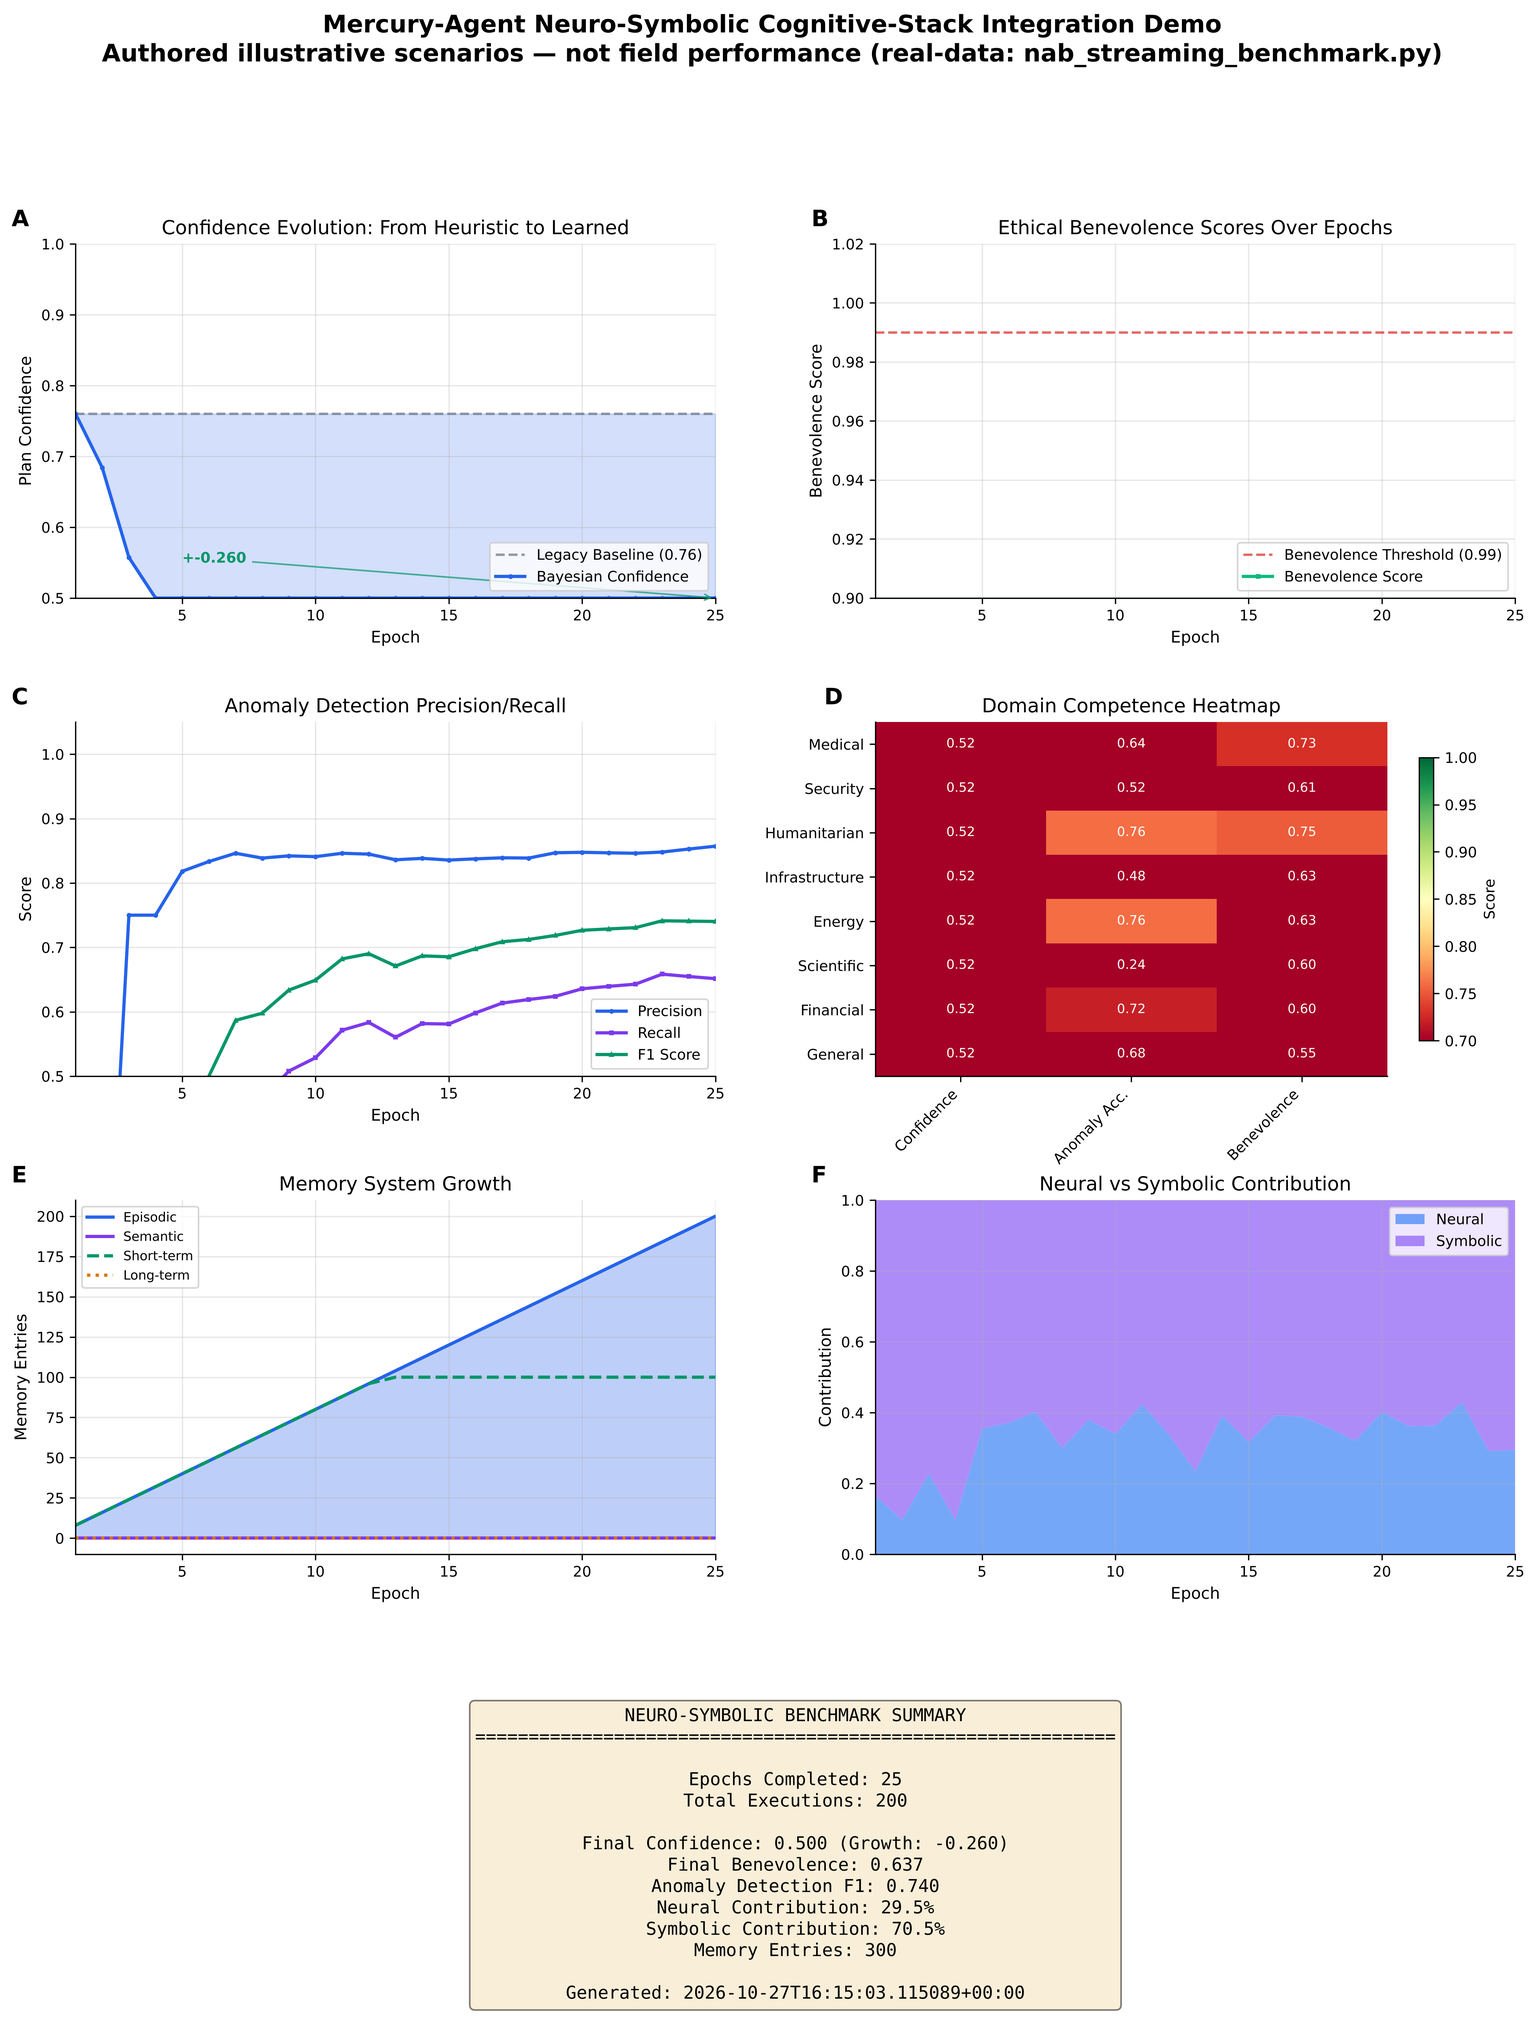
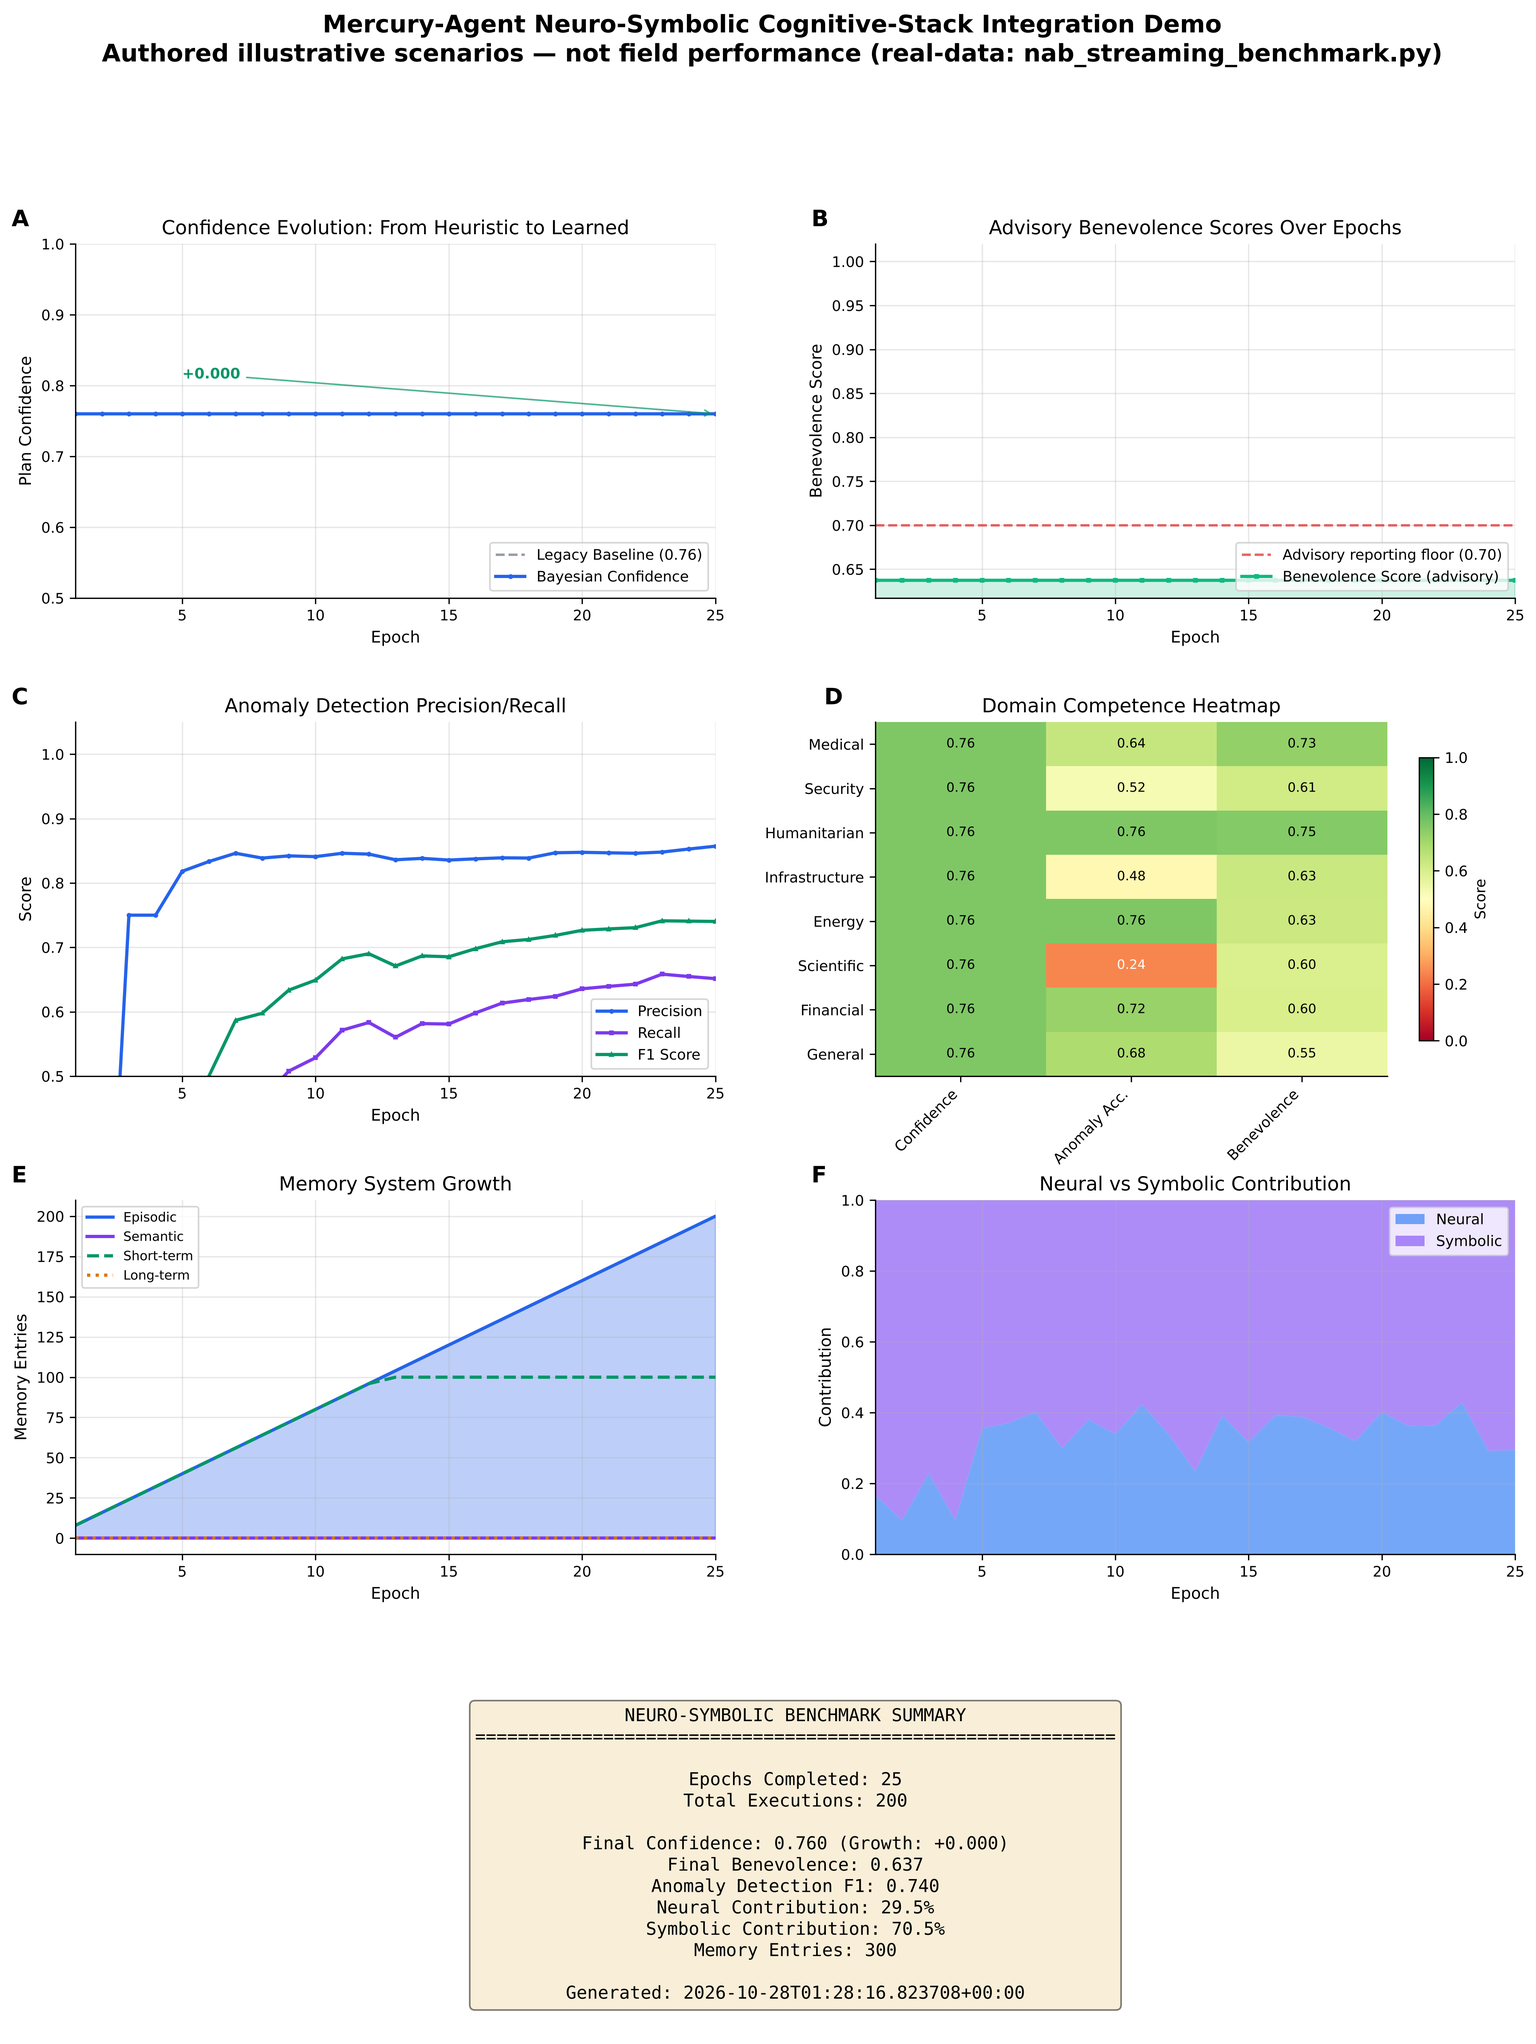
No evidence is not failure: stop pure-reasoning runs poisoning the confidence calibrator; make the demo report render its own data truthfully
The committed neuro-symbolic demo report showed plan confidence collapsing
0.76 -> 0.500. Root cause: a plan whose tasks were all transparently skipped
(no tool bound) reports success_rate 0.0 as 'not applicable', but
_learn_from_execution compared it against the 0.99 success bar and recorded
a failed Bernoulli trial, driving the Beta posterior to the calibrator's 0.5
clamp on every pure-reasoning run. Zero executed tasks now records no
observation, pinned end to end by TestCalibrationEvidence (confidence holds
the 0.76 prior across repeated no-tool analyze calls).

The figure itself had three rendering defects: the domain-competence heatmap
clipped at vmin=0.7 while its data spans 0.24-0.76, rendering every cell the
same saturated red (now the full [0,1] range, so 0.24 reads as 0.24); the
benevolence panel's 0.90-1.02 y-axis hid the ~0.64 advisory series entirely
while drawing the retired 0.99 pass-bar as its reference (now scaled to the
data against the 0.70 advisory reporting floor, labeled advisory); and the
confidence panel annotated a negative delta as '+-0.260' in success green
(now signed, colored by direction). The demo's scorer drops its retired
benevolence_threshold=0.99 for the default advisory floor.

scripts/generate_docs_images.py wrote a different figure (the ensemble
report) to the same docs/images filename the README embeds as this demo, so
one run silently replaced the other; it now saves as
[…]

diff --git a/benchmarks/neuro_symbolic_benchmark.py b/benchmarks/neuro_symbolic_benchmark.py
@@ -45,6 +45,7 @@ from omni_mercury_engine.agentic.mercury_a_agent import (
     create_mercury_agent,
 )
 from omni_mercury_engine.cognitive.ethical_bounding import (
+    MINIMUM_BENEVOLENCE_FLOOR,
     BenevolenceScorer,
 )
 from omni_mercury_engine.cognitive.neural_memory_layer import MemoryType
@@ -290,9 +291,10 @@ def run_neuro_symbolic_benchmark(epochs: int = 50) -> dict[str, Any]:
         fusion_strategy=FusionStrategy.CONFIDENCE_WEIGHTED,
     )
 
-    benevolence_scorer = BenevolenceScorer(
-        benevolence_threshold=0.99,
-    )
+    # Default threshold = MINIMUM_BENEVOLENCE_FLOOR (0.70), the advisory
+    # reporting floor. The 0.99 this demo used to pass is the retired
+    # pass-bar; only score_action is called here, never enforce.
+    benevolence_scorer = BenevolenceScorer()
 
     agent = create_mercury_agent(
         name="Mercury-NeuroSymbolic",
@@ -526,14 +528,17 @@ def plot_confidence_evolution(results: dict[str, Any], ax: Axes) -> None:
 
     final_conf = confidences[-1]
     improvement = final_conf - 0.76
+    # Signed and colored by direction: a drop is annotated as a drop, never
+    # rendered as "+-0.xxx" in success green.
+    delta_color = COLORS["success"] if improvement >= 0 else COLORS["danger"]
     ax.annotate(
-        f"+{improvement:.3f}",
+        f"{improvement:+.3f}",
         xy=(epochs[-1], final_conf),
         xytext=(epochs[-1] - 20, final_conf + 0.05),
         fontsize=9,
-        color=COLORS["success"],
+        color=delta_color,
         fontweight="bold",
-        arrowprops=dict(arrowstyle="->", color=COLORS["success"], alpha=0.7),
+        arrowprops=dict(arrowstyle="->", color=delta_color, alpha=0.7),
     )
 
 
@@ -542,16 +547,21 @@ def plot_benevolence_evolution(results: dict[str, Any], ax: Axes) -> None:
     epochs = [s["epoch"] for s in results["epoch_summaries"]]
     benevolence = [s["benevolence_score"] for s in results["epoch_summaries"]]
 
+    # The 0.99 pass-bar is retired (benevolence is advisory at detection
+    # boundaries; see src/omni_mercury_engine/ethical/__init__.py). The
+    # reference line is the advisory reporting floor, and the y-axis covers
+    # the measured series instead of hiding it below the frame.
     ax.axhline(
-        y=0.99,
+        y=MINIMUM_BENEVOLENCE_FLOOR,
         color=COLORS["danger"],
         linestyle="--",
         linewidth=1.5,
-        label="Benevolence Threshold (0.99)",
+        label=f"Advisory reporting floor ({MINIMUM_BENEVOLENCE_FLOOR:.2f})",
         alpha=0.7,
     )
 
-    ax.fill_between(epochs, [0.9] * len(epochs), benevolence, alpha=0.2, color=COLORS["ethical"])
+    y_lo = min(min(benevolence) - 0.02, MINIMUM_BENEVOLENCE_FLOOR - 0.05)
+    ax.fill_between(epochs, [y_lo] * len(epochs), benevolence, alpha=0.2, color=COLORS["ethical"])
     ax.plot(
         epochs,
         benevolence,
@@ -559,14 +569,14 @@ def plot_benevolence_evolution(results: dict[str, Any], ax: Axes) -> None:
         linewidth=2,
         marker="s",
         markersize=2,
-        label="Benevolence Score",
+        label="Benevolence Score (advisory)",
     )
 
     ax.set_xlabel("Epoch")
     ax.set_ylabel("Benevolence Score")
-    ax.set_title("Ethical Benevolence Scores Over Epochs")
+    ax.set_title("Advisory Benevolence Scores Over Epochs")
     ax.legend(loc="lower right")
-    ax.set_ylim(0.9, 1.02)
+    ax.set_ylim(y_lo, 1.02)
     ax.set_xlim(1, max(epochs))
     ax.grid(True, alpha=0.3)
 
@@ -626,7 +636,10 @@ def plot_domain_heatmap(results: dict[str, Any], ax: Axes) -> None:
 
     cmap = plt.get_cmap("RdYlGn").copy()
     cmap.set_bad(color="#d1d5db")  # grey for any unmeasured cell
-    im = ax.imshow(data, cmap=cmap, aspect="auto", vmin=0.7, vmax=1.0)
+    # Full score range: all three metrics live in [0, 1]. A narrower window
+    # (this was vmin=0.7) clips every sub-window value to one saturated
+    # color, so 0.24 and 0.69 rendered identically and the colorbar lied.
+    im = ax.imshow(data, cmap=cmap, aspect="auto", vmin=0.0, vmax=1.0)
 
     cbar = plt.colorbar(im, ax=ax, shrink=0.8)
     cbar.set_label("Score", fontsize=9)
@@ -642,7 +655,9 @@ def plot_domain_heatmap(results: dict[str, Any], ax: Axes) -> None:
             if np.isnan(value):
                 ax.text(j, i, "n/a", ha="center", va="center", color="black", fontsize=8)
                 continue
-            color = "white" if value < 0.85 else "black"
+            # RdYlGn over [0, 1] is dark at both extremes and light in the
+            # middle, so text is white at the ends and black in the middle.
+            color = "white" if (value < 0.30 or value > 0.85) else "black"
             ax.text(j, i, f"{value:.2f}", ha="center", va="center", color=color, fontsize=8)
 
     ax.set_title("Domain Competence Heatmap")

diff --git a/tests/test_mercury_a_agent.py b/tests/test_mercury_a_agent.py
@@ -55,7 +55,7 @@ class TestRealToolDispatch:
         agent = MercuryAgent(name="t")
         seen = {}
 
-        def detect(data=None):
+        def detect(data: Any = None) -> dict[str, int]:
             seen["data"] = data
             return {"anomalies": int(np.sum(np.asarray(data) > 2.0))}
 
@@ -80,7 +80,7 @@ class TestRealToolDispatch:
     def test_raising_tool_yields_genuine_failure(self) -> None:
         agent = MercuryAgent(name="t")
 
-        def boom():
+        def boom() -> None:
             raise RuntimeError("kaboom")
 
         agent.register_tool("boom", boom)
@@ -127,7 +127,7 @@ class TestExecutionEthicalGate:
         agent = MercuryAgent(name="t")
         ran = {"tool": False}
 
-        def detect(data=None):
+        def detect(data: Any = None) -> dict[str, Any]:
             ran["tool"] = True
             return {}
 
@@ -213,3 +213,67 @@ class TestAnalyzeFlow:
         agent = MercuryAgent(name="t")
         agent.register_tool("detect", lambda: None)
         assert "detect" in agent.get_state()["registered_tools"]
+
+
+class TestCalibrationEvidence:
+    """No executed task means no calibration observation, never a failure.
+
+    A plan whose tasks were all transparently skipped (no tool bound)
+    reports ``success_rate = 0.0`` as "not applicable". Feeding that to the
+    Bayesian calibrator as a failed Bernoulli trial poisoned the Beta
+    posterior toward its 0.5 clamp on every pure-reasoning run — the
+    committed demo report showed plan confidence collapsing 0.76 -> 0.500
+    from this alone. These tests pin the repaired contract.
+    """
+
+    @staticmethod
+    def _execution(completed: int, failed: int, skipped: int) -> dict[str, Any]:
+        executed = completed + failed
+        return {
+            "plan_id": "p1",
+            "tasks_completed": completed,
+            "tasks_failed": failed,
+            "tasks_skipped": skipped,
+            "task_results": [],
+            "success_rate": completed / executed if executed else 0.0,
+        }
+
+    def _agent_with_plan(self) -> MercuryAgent:
+        agent = MercuryAgent(name="t")
+        agent.current_plan = agent.planner.plan("analyze stream health", domain=DomainType.GENERAL)
+        return agent
+
+    def test_skipped_only_execution_records_no_observation(self) -> None:
+        agent = self._agent_with_plan()
+        assert agent.confidence_calibrator is not None
+        agent._learn_from_execution(self._execution(completed=0, failed=0, skipped=3))
+        assert all(
+            s.total_observations == 0 for s in agent.confidence_calibrator.contexts.values()
+        ), "a skipped-only plan produced a calibration observation"
+
+    def test_pure_reasoning_analyze_does_not_erode_confidence(self) -> None:
+        """End to end: repeated no-tool analyze calls leave confidence at the prior."""
+        agent = create_mercury_agent(name="t")
+        data = np.random.default_rng(0).standard_normal((10, 4))
+        confidences = [
+            agent.analyze(data, domain=DomainType.GENERAL)["plan_confidence"] for _ in range(6)
+        ]
+        assert all(
+            c == pytest.approx(0.76, abs=1e-9) for c in confidences
+        ), f"pure-reasoning runs moved confidence off the prior: {confidences}"
+
+    def test_executed_failure_still_counts(self) -> None:
+        agent = self._agent_with_plan()
+        assert agent.confidence_calibrator is not None
+        agent._learn_from_execution(self._execution(completed=0, failed=2, skipped=1))
+        stats = list(agent.confidence_calibrator.contexts.values())
+        assert sum(s.total_observations for s in stats) == 1
+        assert sum(s.failures for s in stats) == 1
+
+    def test_executed_success_still_counts(self) -> None:
+        agent = self._agent_with_plan()
+        assert agent.confidence_calibrator is not None
+        agent._learn_from_execution(self._execution(completed=2, failed=0, skipped=1))
+        stats = list(agent.confidence_calibrator.contexts.values())
+        assert sum(s.total_observations for s in stats) == 1
+        assert sum(s.successes for s in stats) == 1

diff --git a/src/omni_mercury_engine/agentic/mercury_a_agent.py b/src/omni_mercury_engine/agentic/mercury_a_agent.py
@@ -1285,8 +1285,17 @@ class MercuryAgent:
         """Learn from execution results and update confidence calibrator."""
         success_rate = execution_results.get("success_rate", 0.0)
 
-        # Update Bayesian confidence calibrator with execution outcome
-        if self.confidence_calibrator is not None and self.current_plan is not None:
+        # Update Bayesian confidence calibrator with execution outcome.
+        # Only when at least one task actually executed: a plan whose tasks
+        # were all transparently skipped (no tool bound — the pure-reasoning
+        # case) reports success_rate 0.0 as "not applicable", not as failure.
+        # Feeding that 0.0 to the calibrator as a failed Bernoulli trial
+        # poisoned the Beta posterior toward its 0.5 clamp on every
+        # pure-reasoning run; no evidence must mean no observation.
+        executed = int(execution_results.get("tasks_completed", 0)) + int(
+            execution_results.get("tasks_failed", 0)
+        )
+        if self.confidence_calibrator is not None and self.current_plan is not None and executed:
             goal = self.current_plan.metadata.get("goal", "")
             domain = self.current_plan.domain.value
             success = success_rate >= 0.99  # Consider 99%+ as success

diff --git a/scripts/generate_docs_images.py b/scripts/generate_docs_images.py
@@ -240,9 +240,14 @@ def generate_neuro_symbolic_report(data: dict[str, Any]) -> None:
 
     _stamp(fig)
     plt.subplots_adjust(wspace=0.30, hspace=0.35, left=0.07, right=0.97, top=0.93, bottom=0.05)
-    fig.savefig(OUTPUT_DIR / "neuro_symbolic_benchmark_report.png", bbox_inches="tight")
+    # Named for its content (the ensemble report). It used to save as
+    # neuro_symbolic_benchmark_report.png, the same filename
+    # benchmarks/neuro_symbolic_benchmark.py writes its cognitive-stack
+    # demo figure to — the one README embeds — so a run of this script
+    # silently replaced the demo image with a different figure.
+    fig.savefig(OUTPUT_DIR / "ensemble_benchmark_report.png", bbox_inches="tight")
     plt.close(fig)
-    print("  Saved neuro_symbolic_benchmark_report.png")
+    print("  Saved ensemble_benchmark_report.png")
 
 
 # ---------------------------------------------------------------------------

diff --git a/CHANGELOG.md b/CHANGELOG.md
@@ -27,6 +27,35 @@ and this project adheres to [Semantic Versioning](https://semver.org/spec/v2.0.0
 
 ## [Unreleased]
 
+**Fixed — pure-reasoning plans no longer poison the Bayesian confidence
+calibrator, and the neuro-symbolic demo report stops misrendering its own
+data.** `MercuryAgent._learn_from_execution` recorded a *failure* observation
+whenever a plan's tasks were all transparently skipped (no tool bound), because
+the skipped-only `success_rate` of 0.0 — which means "not applicable" — was
+compared against the 0.99 success bar. Every pure-reasoning run therefore drove
+the Beta posterior toward the calibrator's 0.5 clamp; the committed demo report
+showed plan confidence collapsing 0.76 → 0.500 from this alone, and its heatmap
+confidence column sat at a dead 0.52. Now a plan with zero executed tasks
+records no calibration observation (no evidence is not failure), pinned by
+`tests/test_mercury_a_agent.py::TestCalibrationEvidence` end to end. The demo
+figure (`benchmarks/neuro_symbolic_benchmark.py`, embedded in the README) had
+three rendering defects on top: the domain-competence heatmap clipped at
+`vmin=0.7` while its data spans 0.24–0.76, so every cell rendered the same
+saturated red and the colorbar misrepresented the data (now the full [0, 1]
+range); the benevolence panel's y-axis (0.90–1.02) hid the ~0.64 advisory
+series entirely while drawing the retired 0.99 pass-bar as its reference line
+(now scaled to the data, against the 0.70 advisory reporting floor, labeled
+advisory); and the confidence panel annotated a negative delta as `+-0.260` in
+success green (now signed and colored by direction). The demo's scorer also
+dropped its retired `benevolence_threshold=0.99` for the default advisory
+floor. Separately, `scripts/generate_docs_images.py` wrote a *different*
+figure (the ensemble report) to the same
+`docs/images/neuro_symbolic_benchmark_report.png` the README embeds as the
+cognitive-stack demo, so running it silently replaced one figure with the
+other; it now saves as `ensemble_benchmark_report.png`. The committed demo
+image is regenerated under the fixed engine and renderer. Three pre-existing
+untyped test helpers in `tests/test_mercury_a_agent.py` are annotated.
+
 **Fixed — stale ethics-gate documentation brought back to the code.** Four
 documents still described the retired benevolence pass-bar as the first hard
 gate at the detection boundaries, contradicting the enforced code
